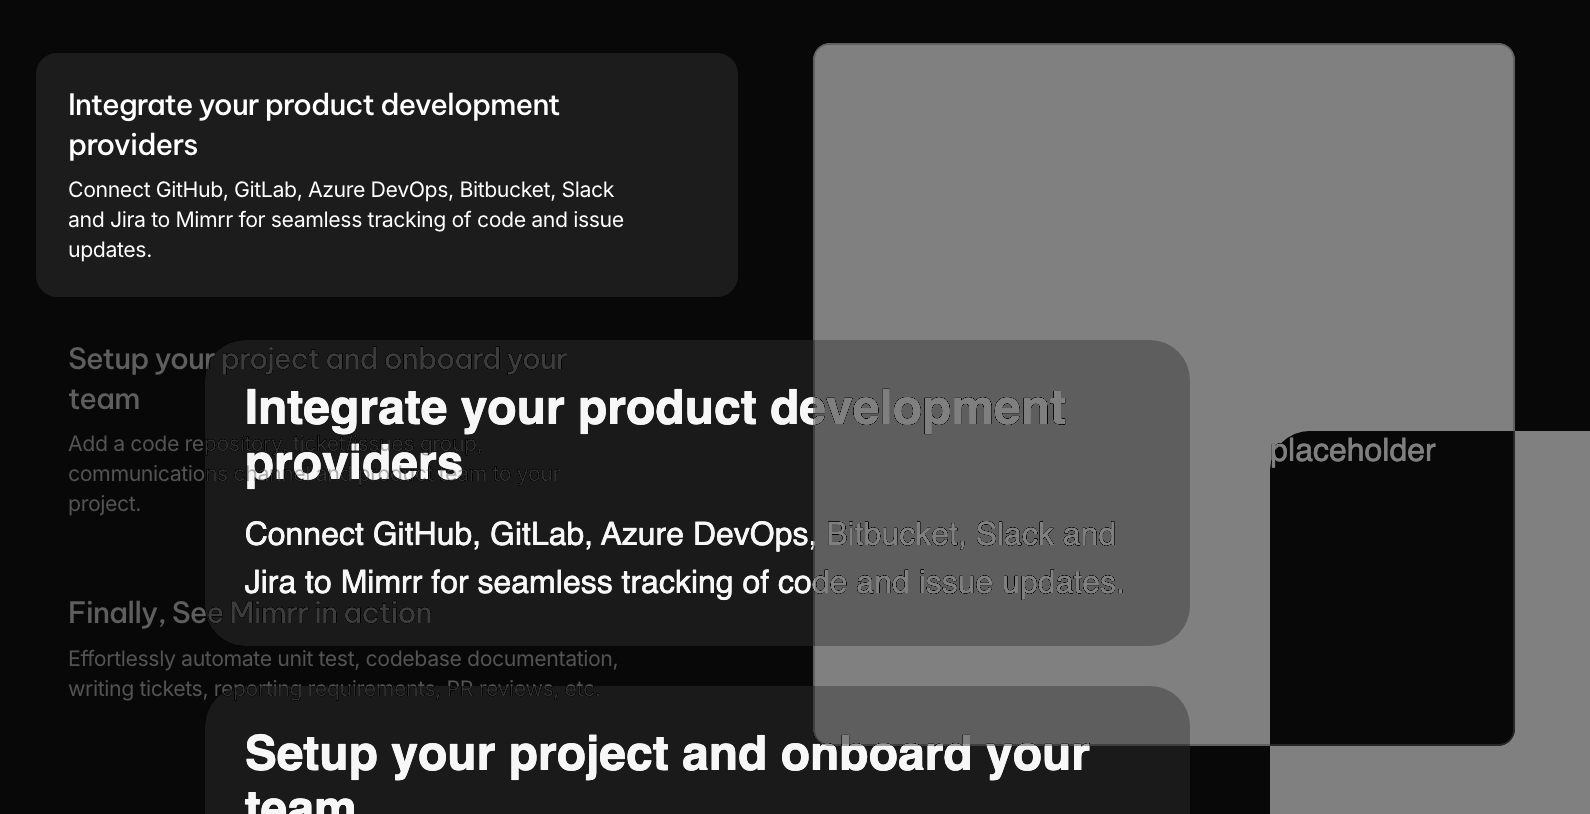
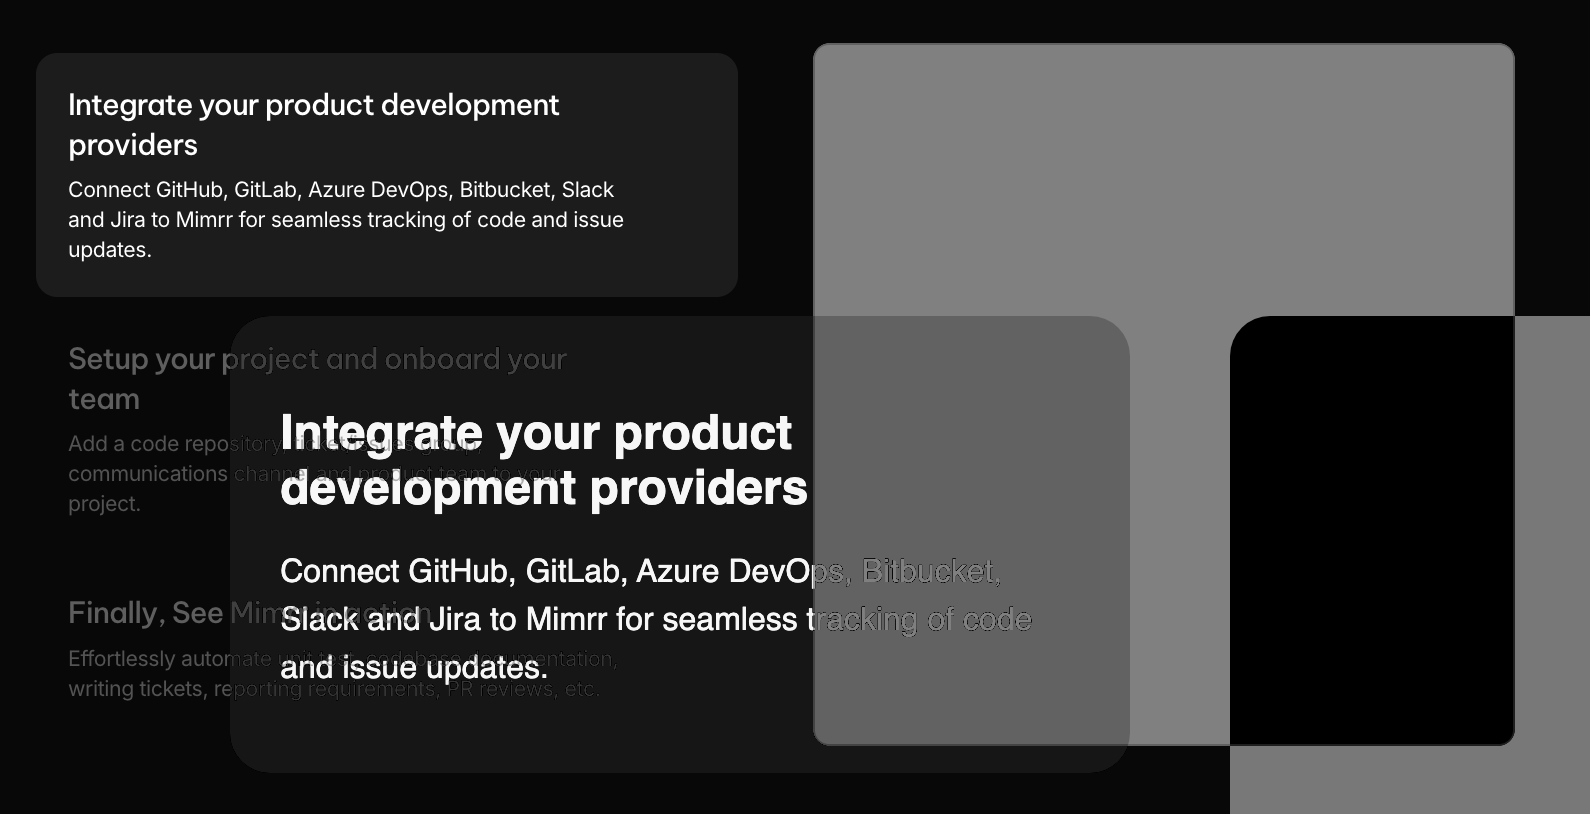
Experimenting with simpler prompt + feedback loop

diff --git a/generated.html b/generated.html
@@ -1,0 +1,101 @@
+```html
+<!DOCTYPE html>
+<html>
+<head>
+<style>
+body {
+  background-color: #000000;
+  font-family: sans-serif;
+  display: flex;
+  justify-content: center;
+  align-items: center;
+  min-height: 100vh;
+}
+
+.container {
+  display: flex;
+  width: 900px;
+}
+
+.left-section {
+  width: 450px;
+  padding: 20px;
+}
+
+.right-section {
+  width: 450px;
+}
+
+.rounded-box {
+  background-color: #222222;
+  color: #ffffff;
+  border-radius: 20px;
+  padding: 20px;
+  margin-bottom: 20px;
+  width: 410px; /* Adjusted width */
+}
+
+.rounded-box h2 {
+  font-size: 20px;
+  margin-bottom: 10px;
+}
+
+.rounded-box p {
+  font-size: 14px;
+  line-height: 1.4;
+}
+
+.text-section h2 {
+  color: #ffffff;
+  font-size: 20px;
+  margin-bottom: 10px;
+}
+
+.text-section p {
+  color: #bbbbbb;
+  font-size: 14px;
+  line-height: 1.4;
+}
+
+.grey-box {
+    width: 400px;
+    height: 400px;
+    background-color: #888888;
+    border-radius: 20px;
+    display: flex;
+    justify-content: center;
+    align-items: center;
+    color: white;
+}
+</style>
+</head>
+<body>
+
+<div class="container">
+  <div class="left-section">
+    <div class="rounded-box">
+      <h2>Integrate your product development providers</h2>
+      <p>Connect GitHub, GitLab, Azure DevOps, Bitbucket, Slack and Jira to Mimrr for seamless tracking of code and issue updates.</p>
+    </div>
+
+    <div class="text-section">
+      <h2>Setup your project and onboard your team</h2>
+      <p>Add a code repository, ticket/issues group, communications channel and product team to your project.</p>
+    </div>
+
+    <div class="text-section">
+      <h2>Finally, See Mimrr in action</h2>
+      <p>Effortlessly automate unit test, codebase documentation, writing tickets, reporting requirements, PR reviews, etc.</p>
+    </div>
+  </div>
+
+  <div class="right-section">
+      <div class="grey-box">
+          placeholder
+      </div>
+  </div>
+</div>
+
+</body>
+</html>
+```

diff --git a/generator.py b/generator.py
@@ -89,15 +89,43 @@ def load_file_content(filepath):
 
 tmp_html = load_file_content('./sample.html')
 tmp_css = load_file_content('./sample.css')
+history = [] 
 contents = [
     # context,
     # prompt,
-    "generate me html and css to recreate the following component. {tmp_html} {tmp_css}. Integrate css into html. Replace all <img> components with a plain div that says 'placeholder'. Do not recreate the <img> components.",
+    "generate me html and css to recreate the following component. {tmp_html} {tmp_css}. Integrate css into html. Replace all <img> components with a plain div that says 'placeholder' in the center. Do not recreate the <img> components. Ensure all the colours match the image, including the font colours. Ensure the dimensions are the same and match the image. Goal is to recreate the image with html + css.",
     image
 ]
 
 print('Sending...')
 generated_html = chat_session.send_message(contents).text
+
+with open("generated.html", "w", encoding="utf-8") as file:
+    file.write(generated_html)
+
 render_html(generated_html)
 print(generated_html)
 compare_images("images/generated_component.png", image_path)
+
+
+history.append({"request":"generate me html and css to recreate the following component. Integrate css into html. Replace all <img> components with a plain div that says 'placeholder' in the center. Do not recreate the <img> components. Ensure all the colours match the image, including the font colours. Ensure the dimensions are the same and match the image. Goal is to recreate the image with html + css.", "response": generated_html})
+
+new_html = load_file_content('./generated.html')
+
+contents = [
+    # context,
+    # prompt,
+    f"Adjust the following css colours: {new_html} so that the corresponding image: {Image.open('images/generated_component.png')} has font colourd that match the font colours the desired image: {image}. Extract pixels to get yhe exact same font colours. Use inline style elements to directory change the colour of the text.",
+    f"Here is the chat history to understand the work done before: {history[0]}"
+]
+
+generated_html = chat_session.send_message(contents).text
+
+with open("generated.html", "w", encoding="utf-8") as file:
+    file.write(generated_html)
+
+render_html(generated_html)
+print(generated_html)
+compare_images("images/generated_component.png", image_path)
+
+
